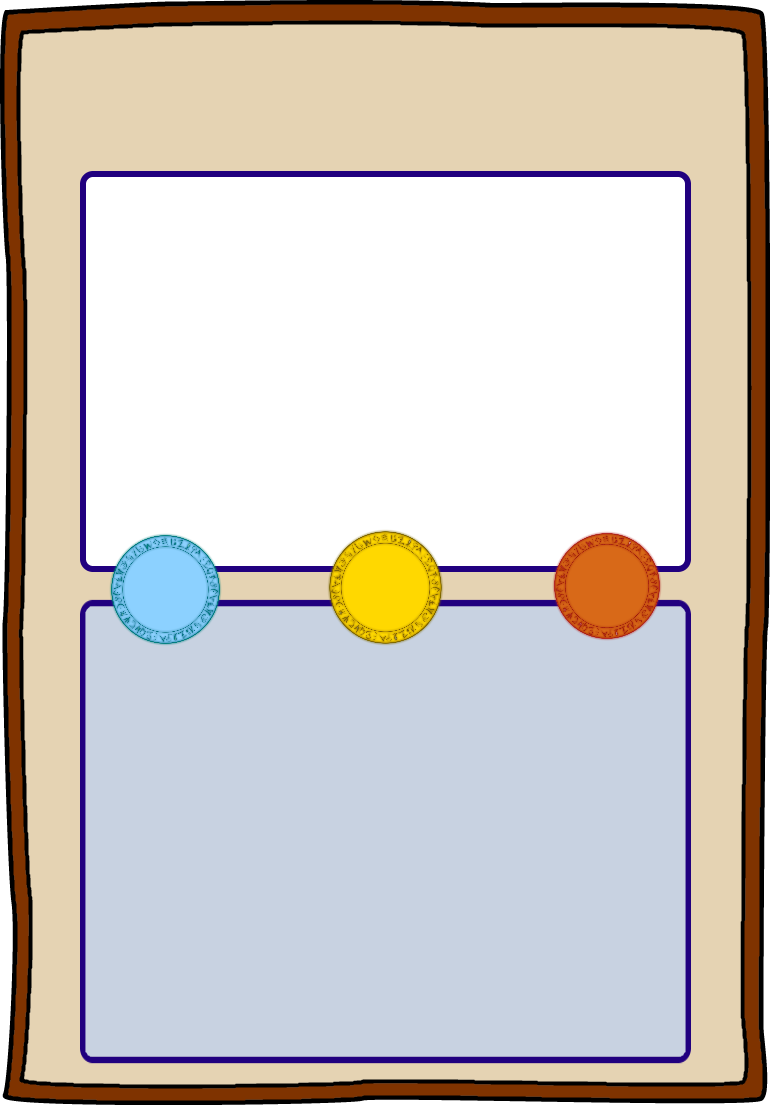
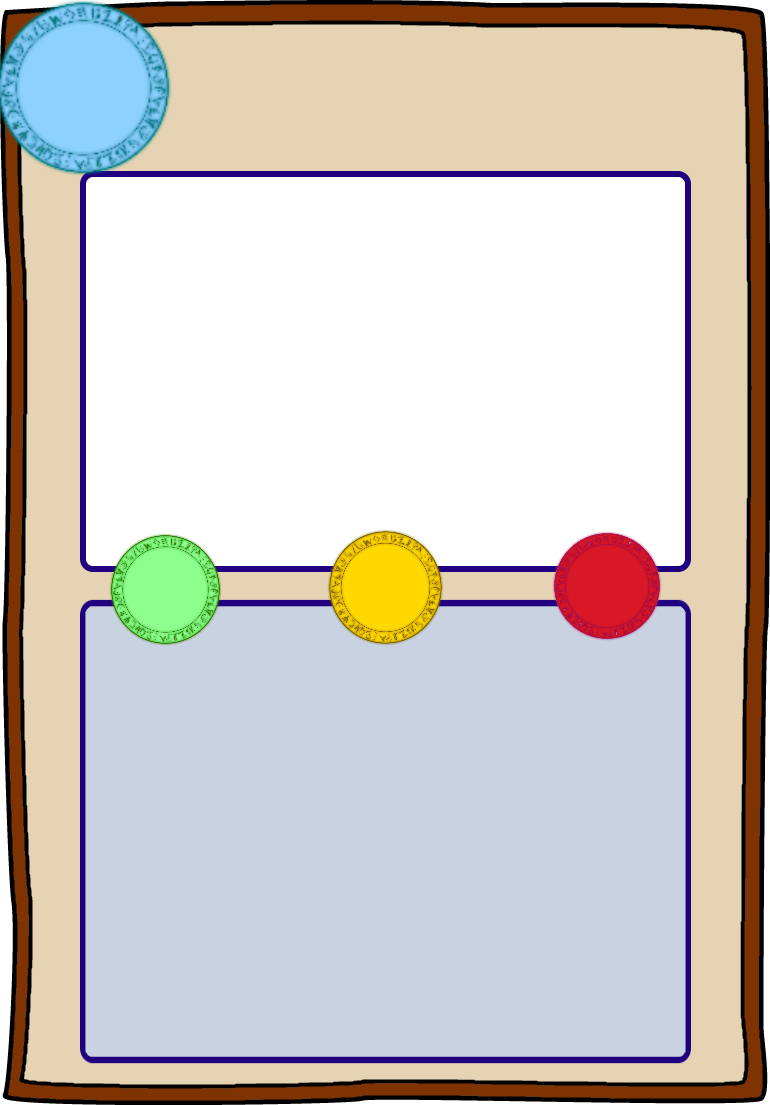
Added game joining system
Added the basic handshake system to join the game, including getting
which player is going first. Added a simple screen to tell the player if
they are going first or second. Created a new 'guiItems' file, and moved
the blackFade class into it. Added the ability to use a radial gradient
in the blackFade class. Added the ability to pause, and moved drawing to
a new function in all game items. Also added the mana cost of a card.

Changed region(s): [[0.0, 0.0, 0.2182, 0.1846], [0.1247, 0.4615, 0.3117, 0.5846], [0.7169, 0.4615, 0.8727, 0.5846]]

diff --git a/gameItems.py b/gameItems.py
@@ -55,6 +55,7 @@ class tile(py.sprite.Sprite):
         self.hovered = False
         
         self.pos = pos
+        self.rimage = self.image
     
     def draw(self):
         v.screen.blit(self.rimage, self.rect)
@@ -62,7 +63,6 @@ class tile(py.sprite.Sprite):
     def update(self):
         if self.rect.collidepoint(v.mouse_pos):
             self.hovered = True
-            v.hoverTile = self
         else:
             self.hovered = False
         
@@ -71,8 +71,9 @@ class tile(py.sprite.Sprite):
                 if self.pos[0] < 2:
                     v.availableTiles.add(self)
             else:
-                if abs(v.dragCard.tile.pos[0] - self.pos[0]) <= 1:
+                if (abs(v.dragCard.tile.pos[0] - self.pos[0]) == 1 and v.dragCard.tile.pos[1] == self.pos[1]) or (abs(v.dragCard.tile.pos[1] - self.pos[1]) == 1 and v.dragCard.tile.pos[0] == self.pos[0]):
                     v.availableTiles.add(self)
+                    
                 
         if v.availableTiles != None:
             if not self in v.availableTiles:
@@ -81,6 +82,7 @@ class tile(py.sprite.Sprite):
         
                 
         if self.hovered:
+            v.hoverTile = self
             self.rimage = self.image.copy()
             self.rimage.fill((255, 255, 255, 200))
         else:
@@ -117,6 +119,9 @@ class gameCard(py.sprite.Sprite):
         render = font.render(self.card.name, 1, (0, 0, 0))
         self.image.blit(render, (self.size[0]/2 - render.get_rect().width/2, 90 - render.get_rect().height/2))
         
+        render = font.render(str(self.card.cost), 1, (0, 0, 0))
+        self.image.blit(render, (85 - render.get_rect().size[0]/2, 85 - render.get_rect().size[1]/2))
+        
         font = py.font.Font("assets/fonts/Galdeano.ttf", 80)
         render = font.render(str(self.card.attack), 1, (0, 0, 0))
         self.image.blit(render, (165 - render.get_rect().size[0]/2, 590 - render.get_rect().size[1]/2))
@@ -126,6 +131,8 @@ class gameCard(py.sprite.Sprite):
         
         render = font.render(str(self.card.health), 1, (0, 0, 0))
         self.image.blit(render, (610 - render.get_rect().size[0]/2, 590 - render.get_rect().size[1]/2))
+        
+        
         
         #description
         words = self.card.description.split(" ")
@@ -151,11 +158,13 @@ class gameCard(py.sprite.Sprite):
         
         self.rect = py.Rect((0, 0), (155, 220))
         self.rect.center = (415 + self.order * 20, 630)
-        
+                
         self.arrow = py.image.load("assets/images/arrow.png")
         self.arrow = py.transform.scale(self.arrow, (100, 100))
         
         self.rarrow = None
+        
+        self.update()
     
     def draw(self):
         if self.rarrow != None:
@@ -169,22 +178,26 @@ class gameCard(py.sprite.Sprite):
         else:
             self.hovered = False
         
-        if self.hovered:
-            for event in v.events:
-                if event.type == py.MOUSEBUTTONDOWN and event.button == 1:
-                    self.drag = True
-                    self.dragPoint = (v.mouse_pos[0] - self.rect.x, v.mouse_pos[1] - self.rect.y)
-                    v.dragCard = self
-                    v.availableTiles = py.sprite.Group()
-                if event.type == py.MOUSEBUTTONUP and event.button == 1 and self.drag:
-                    self.drag = False
-                    v.dragCard = None
-                    v.availableTiles = None
-                    if self.tile == None:
-                        for tile in v.tiles:
-                            if tile.hovered:
-                                self.tile = tile
-                            
+        for event in v.events:
+            if self.hovered and event.type == py.MOUSEBUTTONDOWN and event.button == 1:
+                self.drag = True
+                self.dragPoint = (v.mouse_pos[0] - self.rect.x, v.mouse_pos[1] - self.rect.y)
+                v.dragCard = self
+                v.availableTiles = py.sprite.Group()
+            if event.type == py.MOUSEBUTTONUP and event.button == 1 and self.drag:
+                self.drag = False
+                v.dragCard = None
+                v.availableTiles = None
+                self.rarrow = None
+                if self.tile == None:
+                    for tile in v.tiles:
+                        if tile.hovered:
+                            self.tile = tile
+                else:
+                    if v.hoverTile == None:
+                        pass
+                    else:
+                        self.tile = v.hoverTile
             
         if self.tile == None:
             if self.cycle < 30 and self.hovered:
@@ -211,7 +224,7 @@ class gameCard(py.sprite.Sprite):
             self.rect.y = v.mouse_pos[1] - self.dragPoint[1]
         
         if self.drag and self.tile != None:
-            if v.hoverTile != None and v.hoverTile != self.tile:
+            if v.hoverTile != None and v.hoverTile != self.tile and v.hoverTile != None:
                 self.arrowRect = py.Rect(0, 0, 100, 100)
                 if v.hoverTile.pos[0] > self.tile.pos[0]:
                     self.arrowRect.centery = self.tile.rect.centery
@@ -231,6 +244,8 @@ class gameCard(py.sprite.Sprite):
                     self.rarrow = py.transform.rotate(self.arrow, 90)
                 
             if v.hoverTile == self.tile:
+                self.rarrow = None
+            if v.hoverTile == None:
                 self.rarrow = None
         self.draw()
         
@@ -259,30 +274,8 @@ class castle(py.sprite.Sprite):
             self.image.fill((255, 0, 0), special_flags=py.BLEND_MULT)
         
     
-    def update(self):
-        v.screen.blit(self.image, self.rect)
-        
-class blackFade(py.sprite.Sprite):
-    def __init__(self, limit=255, rate=6):
-        self.limit = limit
-        self.rate = 6
-        self.image = py.Surface((1280, 720))
-        self.image.fill((0, 0, 0))
-        self.alpha = 0
     def draw(self):
-        self.image.set_alpha(self.alpha)
-        v.screen.blit(self.image, (0, 0))
+        v.screen.blit(self.image, self.rect)
     
-    def fadeIn(self):
-        if self.alpha <= self.limit:
-            self.alpha += self.rate
-        if self.alpha > self.limit:
-            self.alpha = self.limit
-        self.draw()
-    def fadeOut(self):
-        if self.alpha > 0:
-            self.alpha -= self.rate
-        if self.alpha < 0:
-            self.alpha = 0
-        self.draw()
-        
+    def update(self):
+        v.screen.blit(self.image, self.rect) 

diff --git a/states.py b/states.py
@@ -3,6 +3,7 @@ import variables as v
 import menuItems
 import network
 import gameItems
+import guiItems
 
 def boot():
     py.init()
@@ -83,7 +84,6 @@ def queue():
     
     network.queue(loading)
     while True:
-        print("loop")
         py.event.pump()
         v.events = []
         v.events = py.event.get()
@@ -96,6 +96,7 @@ def queue():
                 if loading.text[-4:] == "....":
                     loading.text = loading.text[:-4]
         if v.game != None:
+            v.serverConnected = True
             game()
             
         skip.update()
@@ -108,43 +109,59 @@ def queue():
         
 def game():
     network.getCards()
+    network.gameJoin()
+    #network.gameLoop()
     background = py.image.load("assets/images/paper.png")
     background = py.transform.scale(background, (1280, 720))
     v.tiles = py.sprite.Group()
     for y in range(0, 3):
         for x in range(0, 4):
             v.tiles.add(gameItems.tile((x, y), "board"))
-            print(x)
     
-    c = gameItems.gameCard(v.cards[list(v.cards)[0]], 0)
+    v.gameCards = py.sprite.Group() 
+    v.gameCards.add(gameItems.gameCard(v.cards[list(v.cards)[0]], 0))
     
     fps = gameItems.fps()
     
     castles = py.sprite.Group()
     castles.add(gameItems.castle(True))
     castles.add(gameItems.castle(False))
-    fade = gameItems.blackFade(100, 10)
+    fade = guiItems.blackFade(100, 10)
+    
+    coinScreen = guiItems.coinScreen()
+    v.pause = True
+    v.pauseType = "coin"
     while True:
         py.event.pump()
         v.events = []
         v.events = py.event.get()
         v.clock.tick(30)
         v.hoverTile = None
-        v.screen.fill((255, 255, 255))
         v.screen.blit(background, (0, 0))
         
-        v.tiles.update()
-        c.update()
-        castles.update()
-        
-        if v.dragCard != None:
-            fade.fadeIn()
-            for tile in v.availableTiles:
-                tile.draw()
-            v.dragCard.draw()
+        if not v.pause:
+            v.tiles.update()
+            v.gameCards.update()
+            castles.update()
             
-        else:
-            fade.fadeOut()
+            if v.dragCard != None:
+                fade.fadeIn()
+                for tile in v.availableTiles:
+                    tile.draw()
+                v.dragCard.draw()
+                
+            else:
+                fade.fadeOut()
+            
+        if v.pause:
+            for s in v.tiles:
+                s.draw()
+            for s in v.gameCards:
+                s.draw()
+            for s in castles:
+                s.draw()
+            if v.pauseType == "coin":
+                coinScreen.update()
         
         fps.update()
         refresh()

diff --git a/guiItems.py b/guiItems.py
@@ -1,0 +1,65 @@
+import pygame as py
+import variables as v
+import menuItems
+
+class blackFade(py.sprite.Sprite):
+    def __init__(self, limit=255, rate=6, gradient=False):
+        self.limit = limit
+        self.rate = 6
+        if gradient == False:
+            self.image = py.Surface((1280, 720))
+            self.image.fill((0, 0, 0))
+        else:
+            self.image = py.image.load("assets/images/blackGradient.png").convert()
+        self.alpha = 0
+    def draw(self):
+        self.image.set_alpha(self.alpha)
+        v.screen.blit(self.image, (0, 0))
+    
+    def fadeIn(self):
+        if self.alpha <= self.limit:
+            self.alpha += self.rate
+        if self.alpha > self.limit:
+            self.alpha = self.limit
+        self.draw()
+    def fadeOut(self):
+        if self.alpha > 0:
+            self.alpha -= self.rate
+        if self.alpha < 0:
+            self.alpha = 0
+        self.draw()
+        
+class coinScreen(py.sprite.Sprite):
+    def __init__(self):
+        self.black = blackFade(230, 8, True)
+        font = py.font.Font("assets/fonts/Galdeano.ttf", 80)
+        if v.gameStarter == v.unid:
+            self.text = font.render("You go first", 1, (255, 255, 255))
+            self.miniText = None
+        else:
+            self.text = font.render("You go second", 1, (255, 255, 255))
+            
+            font = py.font.Font("assets/fonts/Galdeano.ttf", 30)
+            self.miniText = font.render("You start with an extra card, and the first minion you play gains charge", 1, (255, 255, 255))
+            
+        self.state = "in"
+        
+        self.button = menuItems.Button("Begin", (640, 420), 80, (250, 250, 230), (230, 230, 200), "assets/fonts/Galdeano.ttf", "begin", centred=True)
+    
+    def update(self):
+        if self.state == "in":
+            self.black.alpha = 230
+            self.black.draw()
+        elif self.state == "stay":
+            self.black.draw()
+        elif self.state == "out":
+            self.black.fadeOut()
+        
+        v.screen.blit(self.text, (640 - self.text.get_rect().width/2, 300 - self.text.get_rect().height/2))
+        if self.miniText != None:
+            v.screen.blit(self.miniText, (640 - self.miniText.get_rect().width/2, 350 - self.miniText.get_rect().height/2))
+            
+        self.button.update()
+        if self.button.pressed():
+            v.pause = False
+            v.pauseType = None

diff --git a/network.py b/network.py
@@ -27,9 +27,7 @@ def queue(loadObj):
         key = random.random()
         payload = {"key": key}
         jpayload = json.dumps(str(payload))
-        print("start")
         r = requests.post(v.server + "connect/", data=jpayload)
-        print("end")
         data = ast.literal_eval(r.text)
         if data["key"] == key:
             v.unid = data["unid"]
@@ -51,6 +49,30 @@ def checkQueue():
             return
         if v.networkHalt == True:
             return
+
+def gameLoop():
+    def _gameLoop():
+        payload = {"unid": v.unid, "game": v.game}
+        jpayload = json.dumps(str(payload))
+        r = requests.post(v.server + "game_loop/", data=jpayload)
+        data = ast.literal_eval(r.text)
+    
+    if v.serverConnected:
+        t3 = threading.Thread(target=_gameLoop)
+        t3.start()
+        
+        
+def gameJoin():
+    def _gameJoin():
+        payload = {"unid": v.unid, "game": v.game} #also push name
+        jpayload = json.dumps(str(payload))
+        r = requests.post(v.server + "game_start/", data=jpayload)
+        data = ast.literal_eval(r.text)
+        v.gameStarter = data["starter"]
+        v.gameTurn = data["turn"]
+        print(v.gameStarter, v.gameTurn)
+    t2 = threading.Thread(target=_gameJoin)
+    t2.start()
 
 def getCards():
     print(v.server + "get_cards/")

diff --git a/variables.py b/variables.py
@@ -7,9 +7,12 @@ windowHeight = 360
 mouse_pos = (0, 0)
 events = []
 fullscreen = False
+pause = False
+pauseType = None
 
 cards = {}
 tiles = None
+gameCards = None
 availableTiles = None
 dragCard = None
 hoverTile = None
@@ -18,3 +21,6 @@ server = "http://127.0.0.1:5000/"
 unid = 0
 game = None
 networkHalt = False
+serverConnected = False
+gameStarter = None
+gameTurn = None
